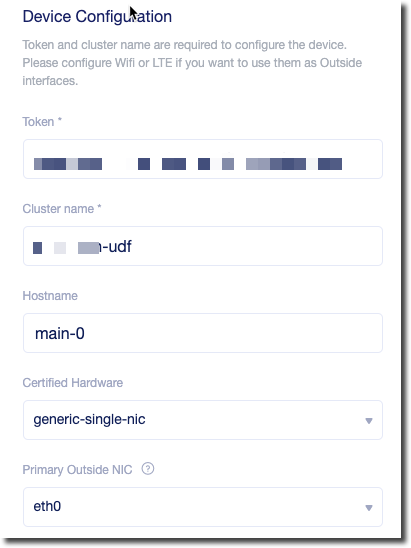
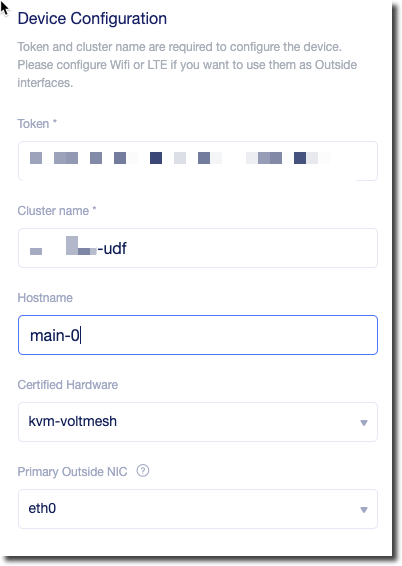
change image to kvm-voltmesh from generic

diff --git a/networking/docs/lab1/voltconsole.rst b/networking/docs/lab1/voltconsole.rst
@@ -59,7 +59,7 @@ You will need to provide the following information.
 - Token: [use one created previously]
 - Cluster Name: [unique name]+udf
 - Hostname: main-0
-- Certified Hardware: generic-single-nic
+- Certified Hardware: kvm-voltmesh
 - Primary Outside NIC: eth0
 - Latitude/Longitude
 
